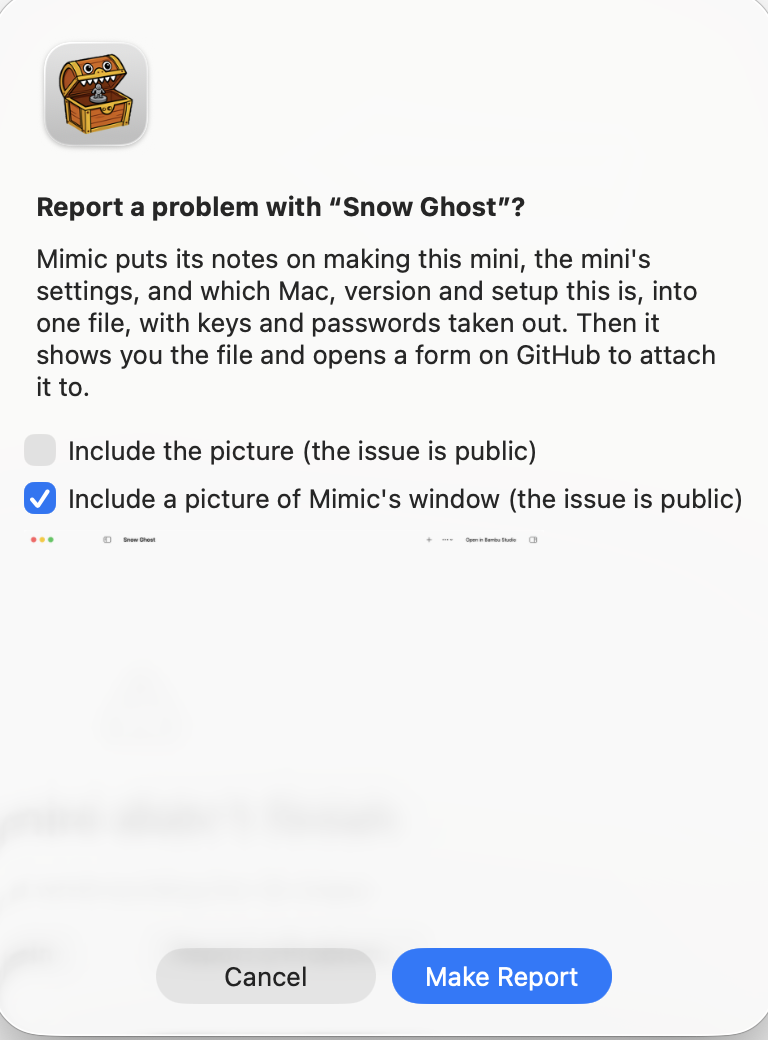
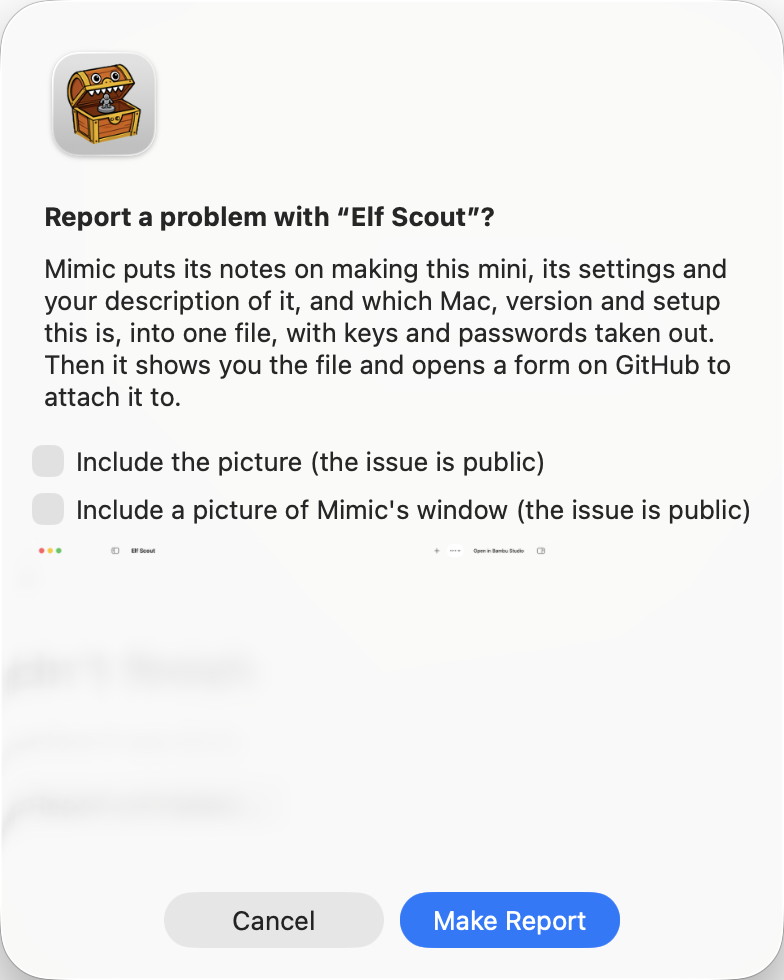
docs: retake the Report a Problem screenshot

diff --git a/docs/report.md b/docs/report.md
@@ -16,7 +16,7 @@ on GitHub for you to attach it to.
   **Mini** menu or by right-clicking the mini.
 - For anything else: choose **Help → Report a Problem…**.
 
-![Report a problem with “Snow Ghost”?: what goes in the file, Include the picture unticked, Include a picture of Mimic's window unticked with its preview, and Cancel and Make Report](images/screens/troubleshooting-report-a-problem.png){ width="384" }
+![Report a problem with “Elf Scout”?: what goes in the file, Include the picture unticked, Include a picture of Mimic's window unticked with its preview, and Cancel and Make Report](images/screens/troubleshooting-report-a-problem.png){ width="392" }
 
 Mimic first says what goes in the file. Press **Make Report**. The file has:
 
